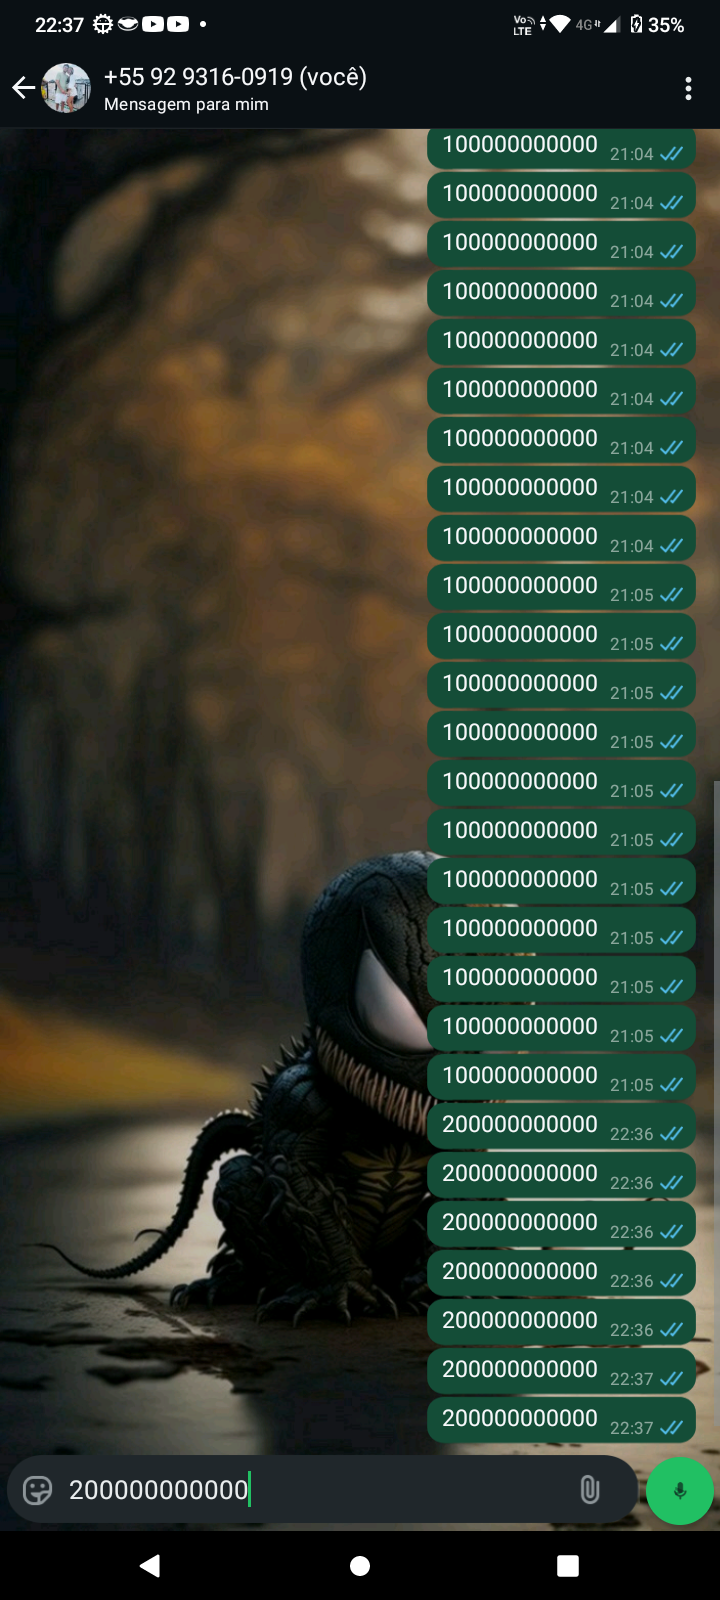
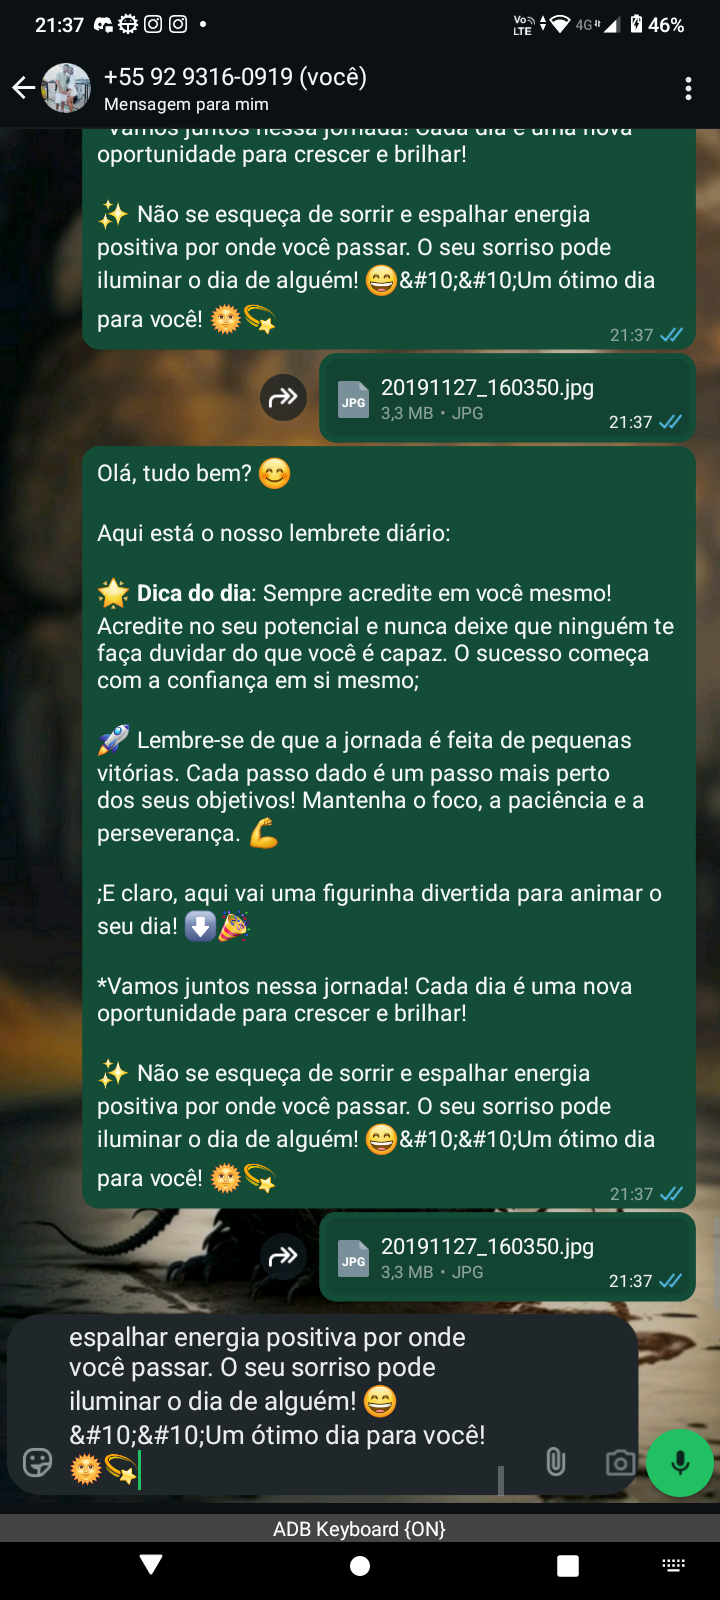
Implementacao do arquivo no click no ADB

diff --git a/src/android/androidDeviceManager.py b/src/android/androidDeviceManager.py
@@ -275,15 +275,52 @@ class AndroidDeviceManager:
         self.device.shell(f'am start -a android.intent.action.VIEW -d "https://api.whatsapp.com/send?phone={numero}"')
         self.device.shell("ping 127.0.0.1 -n 3 > nul")
         time.sleep(2)
-        self.device.shell(f'am broadcast -a ADB_INPUT_TEXT --es msg "{msg}"')
-        result = self.device.screencap()
-        image = Image.open(io.BytesIO(result))
-        image.save("screenshot.png")
-        time.sleep(2)
 
-        image_path = "what.jpg"
-        x, y = self.image_position(image_path,"screenshot.png")
-        self.click(x, y)
+        x, y=self.calculate_center('[69,1465][504,1483]')
+        self.click(x,y)
+        time.sleep(1)
+
+        self.device.shell(f'am broadcast -a ADB_INPUT_TEXT --es msg "{msg}"')
+
+        time.sleep(1)
+
+        # result = self.device.screencap()
+        # image = Image.open(io.BytesIO(result))
+        # image.save("screenshot.png")
+        # time.sleep(2)
+
+        # image_path = "what.jpg"
+        # x, y = self.image_position(image_path,"screenshot.png")
+        # self.click(x, y)
+
+          #envia o arquivo
+        x, y =self.calculate_center('[639,1450][708,1483]')
+        self.click(x,y)
+        time.sleep(1)
+
+        #clica no file
+        x, y=self.calculate_center('[504,1455][573,1483]')
+        self.click(x,y)
+
+        time.sleep(1)
+
+        #clica em documentos
+        x, y=self.calculate_center('[139,1160][217,1238]')
+        self.click(x,y)
+
+        time.sleep(1)
+
+        #seleciona o arquivo
+        x, y=self.calculate_center('[104,403][335,436]')
+        self.click(x,y)
+
+        time.sleep(1)
+
+        #envia o arquivo
+        x, y=self.calculate_center('[639,1450][708,1483]')
+        self.click(x,y)
+
+        time.sleep(1)
 
         return True, "scrip executado com sucesso"
 
@@ -307,3 +344,21 @@ class AndroidDeviceManager:
             print("Nenhum dispositivo conectado.")
             return None
         self.device.shell(f"input tap {tap_x} {tap_y}")
+
+    
+    def calculate_center(self, bounds):
+        try:
+            bounds = bounds.strip("[]").split("][")
+            if len(bounds) != 2:
+                raise ValueError("Bounds string format is incorrect. Expected format: '[x1,y1][x2,y2]'")
+            
+            # Separar e converter as coordenadas
+            x1, y1 = map(int, bounds[0].split(","))
+            x2, y2 = map(int, bounds[1].split(","))
+            
+            # Calcular o centro
+            center_x = (x1 + x2) // 2
+            center_y = (y1 + y2) // 2
+            return center_x, center_y
+        except Exception as e:
+            raise ValueError(f"Error calculating center: {e}")

diff --git a/outros/script_mostrar_xml.py b/outros/script_mostrar_xml.py
@@ -44,7 +44,7 @@ if __name__ == '__main__':
     app = QApplication(sys.argv)
 
     # Carrega o arquivo XML do uiautomator (substitua pelo caminho do seu arquivo)
-    parser = UIAutomatorParser('window_adump.xml')
+    parser = UIAutomatorParser('outros/window_dump.xml')
     parser.show()
 
     sys.exit(app.exec())
